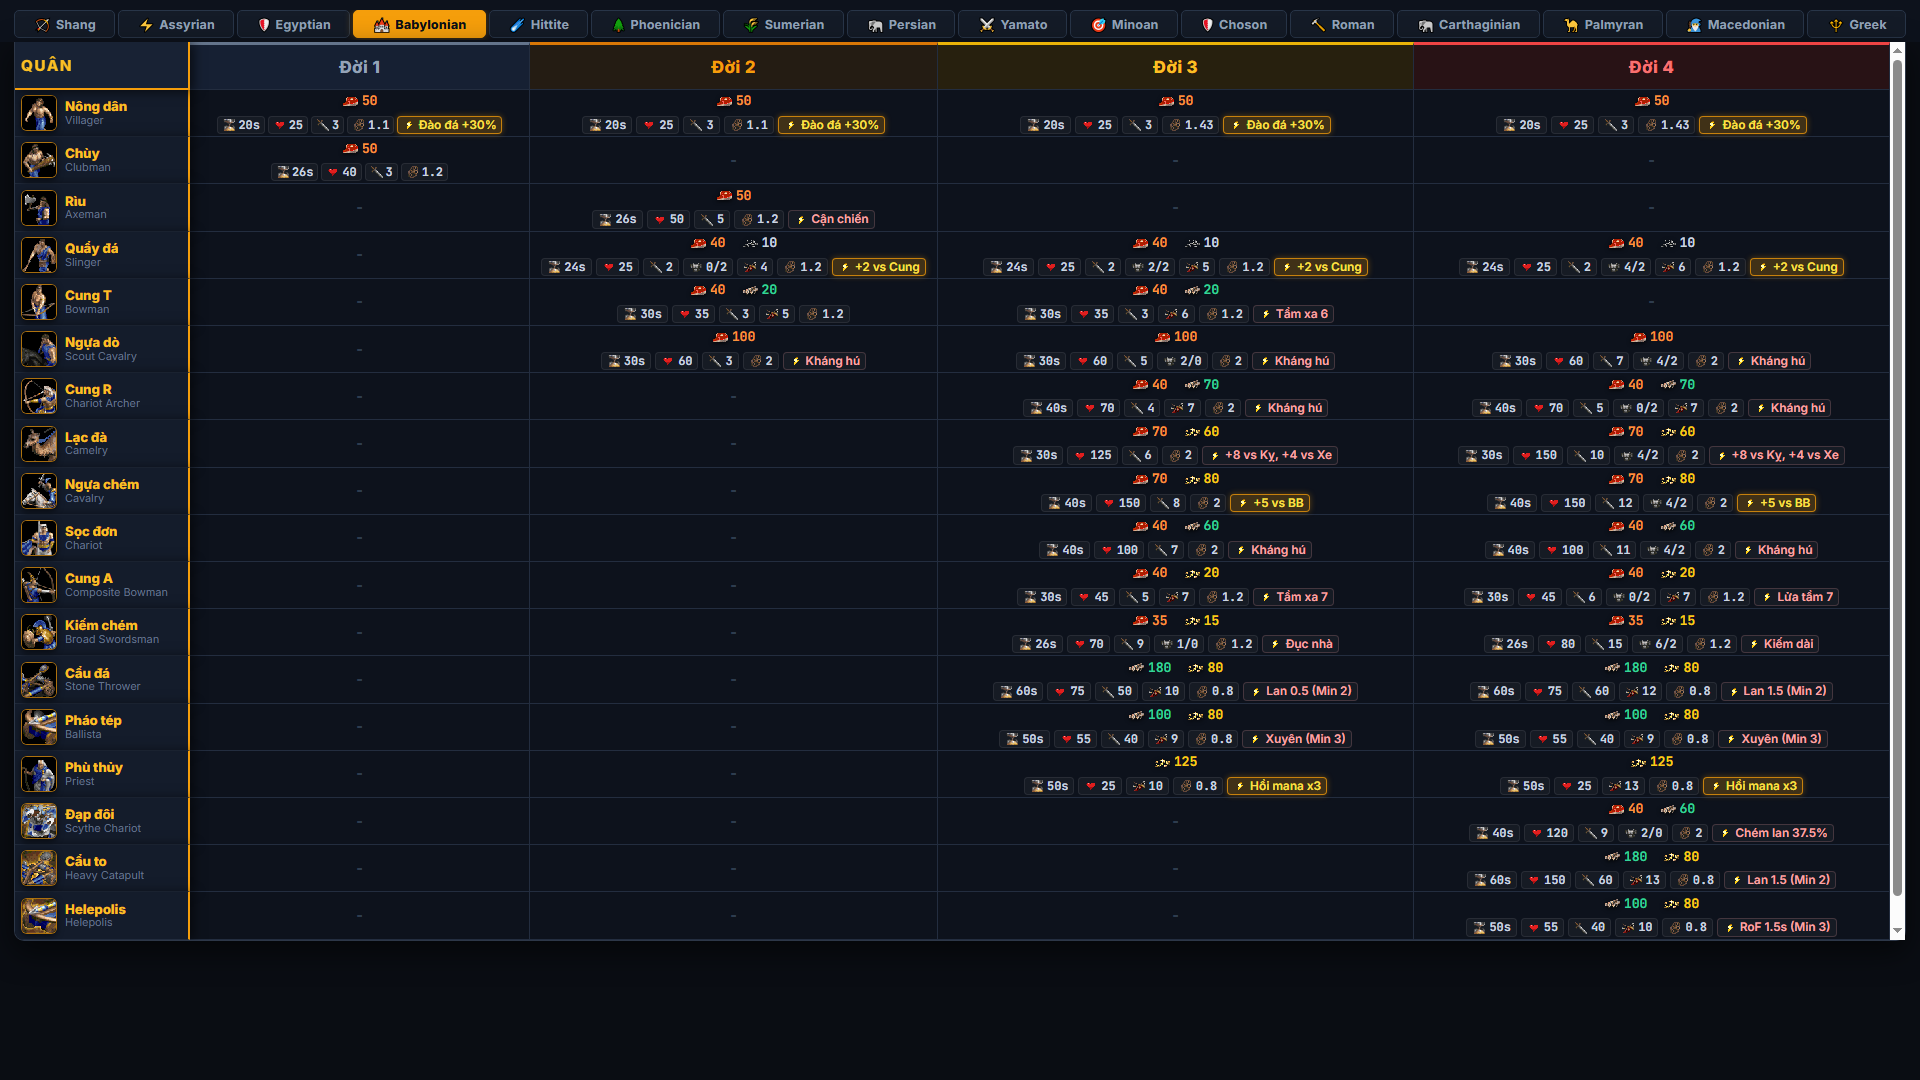
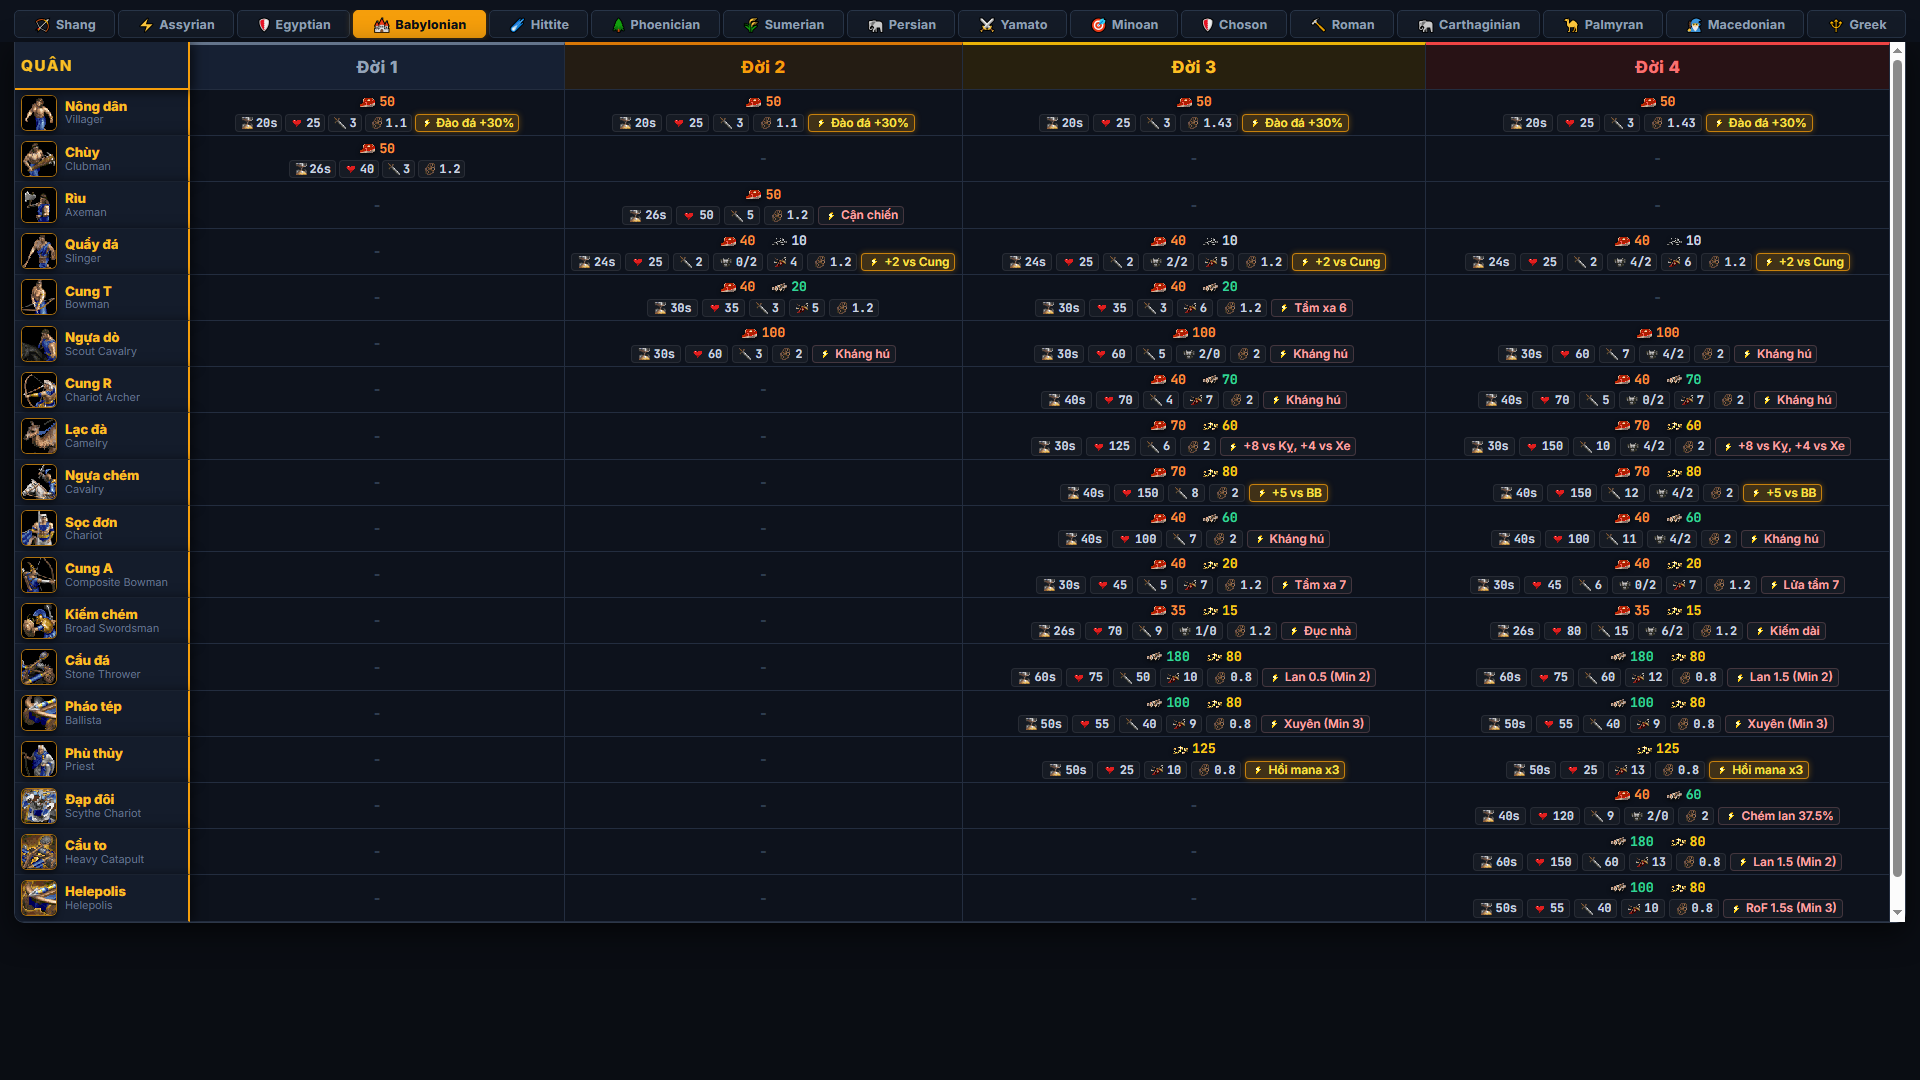
ok

diff --git a/AoE1/style.css b/AoE1/style.css
@@ -49,18 +49,29 @@
   padding: 0;
 }
 
+html, body {
+  height: 100vh;
+  max-height: 100vh;
+  overflow: hidden;
+  margin: 0;
+  padding: 0;
+}
+
 body {
   background-color: var(--bg-body);
   color: var(--text-main);
   font-family: var(--font-sans);
   line-height: 1.6;
-  min-height: 100vh;
+  height: 100vh;
+  max-height: 100vh;
+  overflow: hidden;
   display: flex;
   flex-direction: column;
 }
 
 /* HEADER & HERO FULLWIDTH */
 .header-fullwidth {
+  flex-shrink: 0;
   background: #0d121c;
   border-bottom: none;
   padding: 6px 14px 2px;
@@ -165,9 +176,13 @@ body {
   width: 100% !important;
   max-width: 100% !important;
   margin: 0 !important;
-  padding: 0 14px 14px !important;
+  padding: 0 14px 10px !important;
   box-sizing: border-box !important;
-  flex: 1;
+  flex: 1 1 0;
+  min-height: 0;
+  display: flex;
+  flex-direction: column;
+  overflow: hidden;
 }
 
 /* ACTIVE CIV BANNER TỔNG QUAN */
@@ -1059,12 +1074,13 @@ footer {
   font-style: italic;
 }
 
-/* SPREADSHEET TABLE CONTAINER (CHỈ CUỘN NGANG KHI TRÀN CỘT, KHÔNG LỒNG CUỘN DỌC) */
+/* SPREADSHEET TABLE CONTAINER (THANH CUỘN DUY NHẤT CỦA CẢ TRANG, KHÔNG LỒNG CUỘN) */
 .spreadsheet-container {
   width: 100%;
-  max-height: none;
+  flex: 1 1 0;
+  min-height: 0;
   overflow-x: auto;
-  overflow-y: visible;
+  overflow-y: auto;
   border: 1.5px solid #2d3748;
   border-top: none;
   border-radius: 0 0 var(--radius-md) var(--radius-md);
@@ -1467,7 +1483,7 @@ footer {
 }
 
 .row-unit-full {
-  height: 60px;
+  height: 48px;
   transition: all 0.15s ease-in-out;
 }
 
@@ -1706,7 +1722,7 @@ footer {
 
 /* 4. Ô NỘI DUNG 2 DÒNG CANH GIỮA TRONG TỪNG ĐỜI */
 .cell-age-entry {
-  padding: 4px 6px;
+  padding: 3px 6px 3px;
   text-align: center;
   vertical-align: middle;
   background: #0d121c;
@@ -1719,17 +1735,18 @@ footer {
   flex-direction: column;
   align-items: center;
   justify-content: center;
-  gap: 5px;
+  gap: 2px;
   width: 100%;
 }
 
-/* DÒNG 1: TÀI NGUYÊN MUA (CANH GIỮA) */
+/* DÒNG 1: TÀI NGUYÊN MUA (CANH GIỮA, CÁCH TOP 1 CHÚT XÍU) */
 .cell-line-cost {
   display: flex;
   align-items: center;
   justify-content: center;
   gap: 8px;
   flex-wrap: wrap;
+  margin-top: 1px;
 }
 
 .cost-item {
@@ -1763,13 +1780,14 @@ footer {
   font-size: 0.8rem;
 }
 
-/* DÒNG 2: CÁC CHỈ SỐ (CANH GIỮA, CÓ TOOLTIP) */
+/* DÒNG 2: CÁC CHỈ SỐ (CANH GIỮA, CÓ TOOLTIP, CÁCH BOTTOM CHÚT XÍU) */
 .cell-line-stats {
   display: flex;
   align-items: center;
   justify-content: safe center;
   gap: 4px;
   flex-wrap: wrap;
+  margin-bottom: 1px;
 }
 
 .stat-pill {
